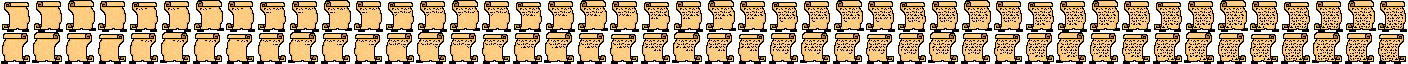
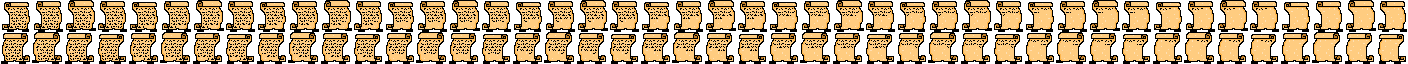
fixed transferpaper animate

diff --git a/src/game/Game.tsx b/src/game/Game.tsx
@@ -78,7 +78,7 @@ export default class Game extends React.Component<IGameProps, IGameState> {
                     levelPosX = {this.state.levelPosX}
                     entities = {this.state.entities}/>
                 <GameMenu
-                    show = {true}
+                    show = {false}
                     currentLevel = {this.state.currentLevel}
                     gameMenuType = {GameMenuType.START}/>
                 

diff --git a/src/game/Entities/characters/Transferpaper.tsx b/src/game/Entities/characters/Transferpaper.tsx
@@ -44,7 +44,7 @@ export default class Transferpaper extends Npc {
             this.spritePos.tileY = 1;
         }
         if (ticks % 4 === 0) {
-            switch (this.spritePos.tileX) {
+            switch (this.spritePos.tileX % 4) {
                 case 0:
                     this.spritePos.tileX = 1 + 4 * this.lives; // 4 * lives -> take sprite that corresponds to current health state
                     break;
